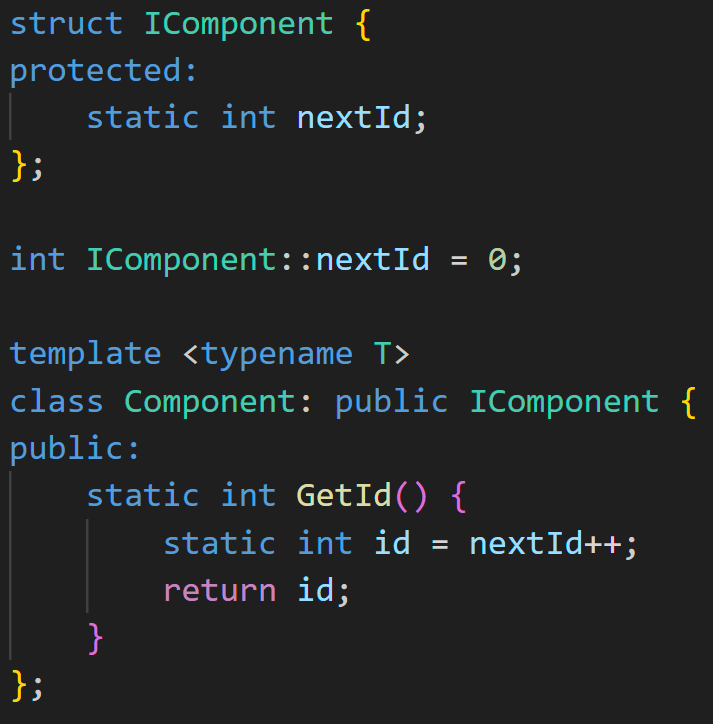
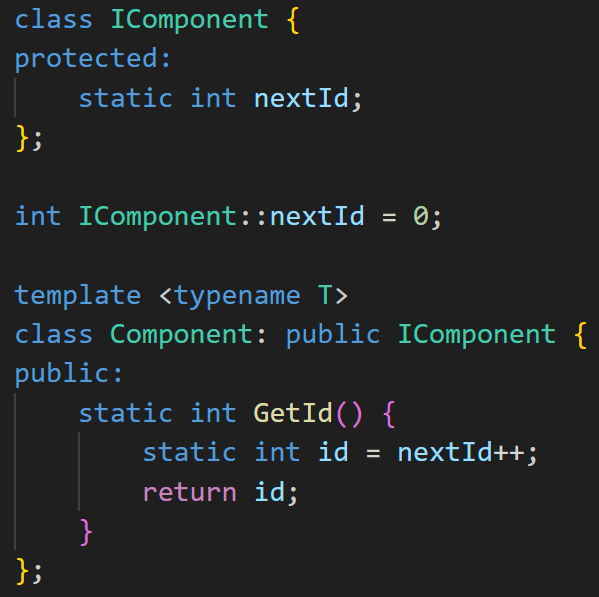
improvements

diff --git a/src/components/Rotmgabe.jsx b/src/components/Rotmgabe.jsx
@@ -31,7 +31,7 @@ export const Rotmgabe = ({ className, visible }) => {
                     <img className="rounded-image w-[60%]" src="/entity.png"></img>
                 </div>
                 <div className="flex flex-col items-center justify-center gap-1">
-                    <div className="passage-text">Components hold data:</div>
+                    <div className="passage-text">Components only hold data:</div>
                     <img className="rounded-image w-[60%]" src="/componentexamples.png"></img>
                 </div>
             </div>

diff --git a/codeExamples/DOD.cpp b/codeExamples/DOD.cpp
@@ -25,7 +25,7 @@ public:
     }
 };
 
-struct IComponent { 
+class IComponent { 
 protected: 
     static int nextId; 
 };
@@ -116,8 +116,8 @@ public:
 };
 
 struct HealthComponent {
-    float maxHealth;
-    float activeHealth;
+    double maxHealth;
+    int activeHealth;
 };
 
 struct PositionComponent {
